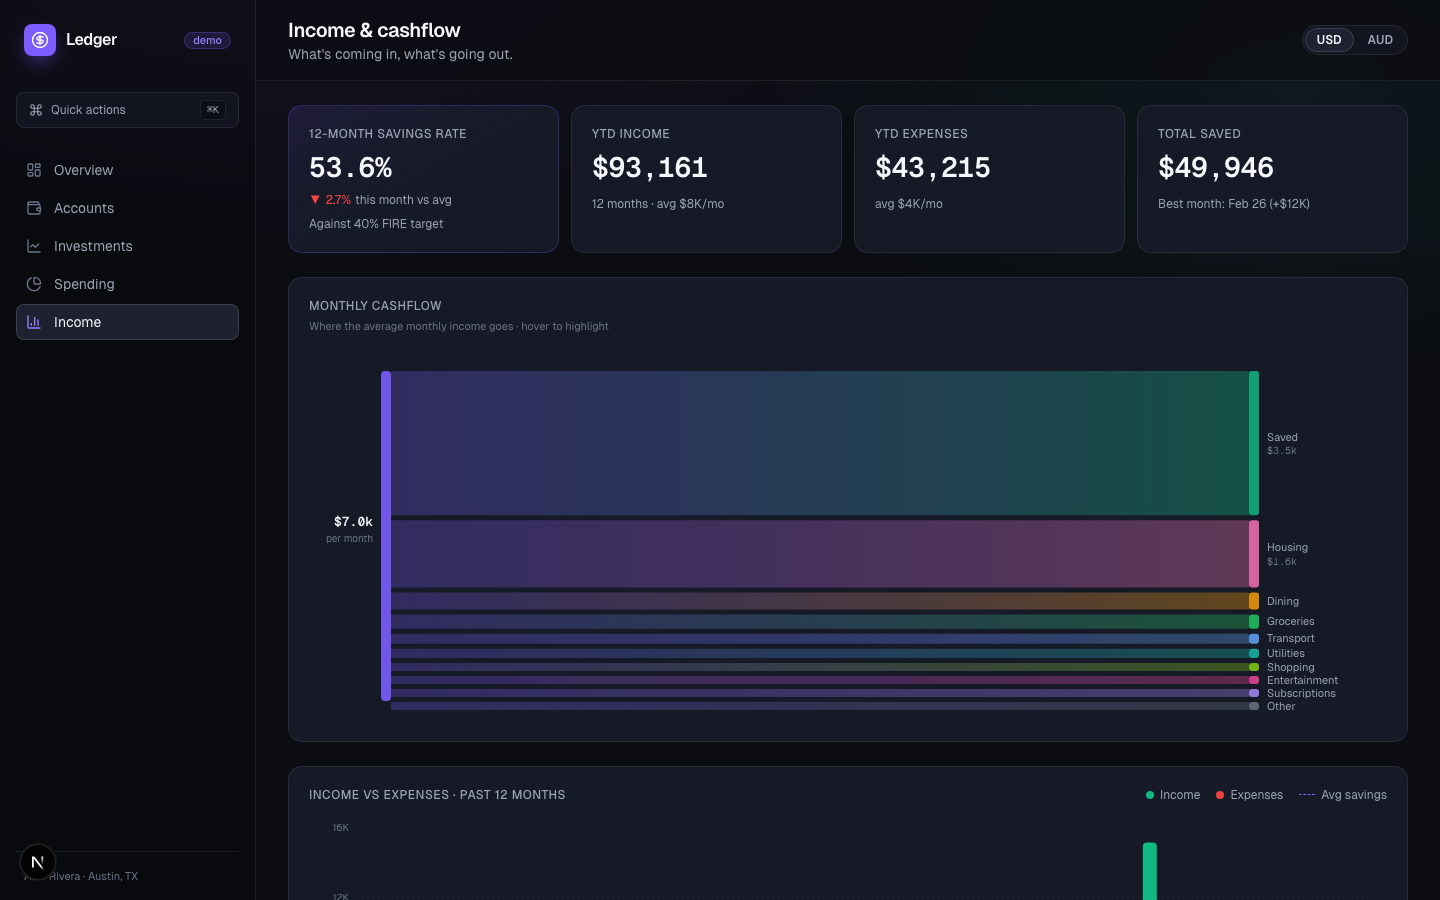
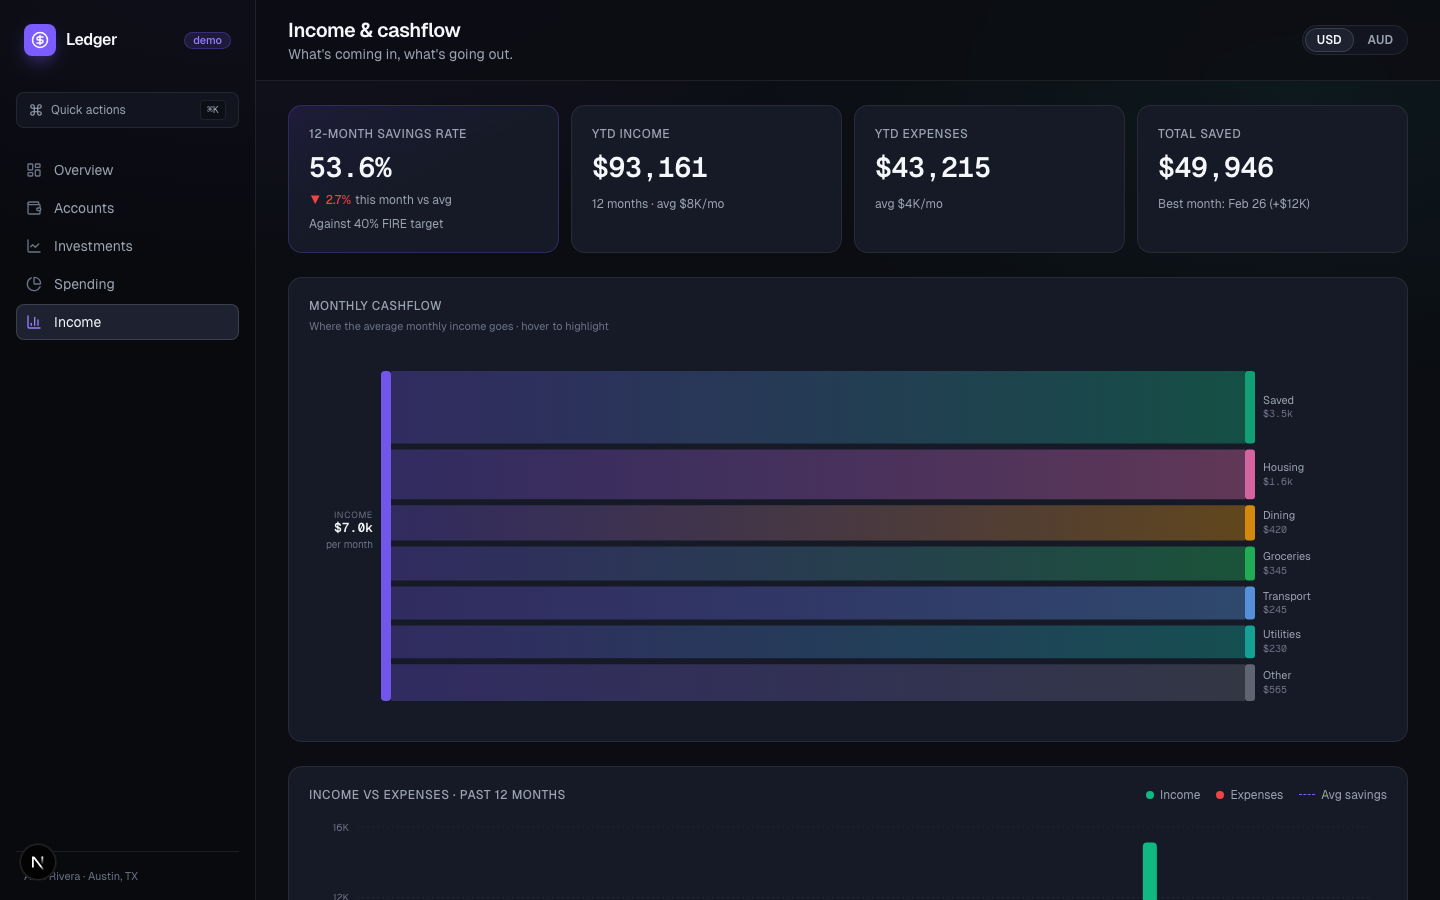
fix: show label and value on every Sankey category
Consolidated to 7 categories and applied a minimum-height floor so
every node is large enough to display both its label and dollar amount
consistently.

Changed region(s): [[0.2188, 0.4044, 0.9375, 0.8089]]

diff --git a/src/components/charts/sankey-flow.tsx b/src/components/charts/sankey-flow.tsx
@@ -3,6 +3,7 @@
 import { useMemo, useState } from "react";
 import { useDimensions } from "@/lib/hooks/use-dimensions";
 
+// Consolidated to 7 categories so every node is large enough to label
 const LINKS = [
   { label: "Saved", value: 3545, color: "#10b981" },
   { label: "Housing", value: 1650, color: "#f472b6" },
@@ -10,20 +11,18 @@ const LINKS = [
   { label: "Groceries", value: 345, color: "#22c55e" },
   { label: "Transport", value: 245, color: "#60a5fa" },
   { label: "Utilities", value: 230, color: "#14b8a6" },
-  { label: "Shopping", value: 195, color: "#84cc16" },
-  { label: "Entertainment", value: 142, color: "#ec4899" },
-  { label: "Subscriptions", value: 108, color: "#a78bfa" },
-  { label: "Other", value: 120, color: "#6b7280" },
+  { label: "Other", value: 565, color: "#6b7280" },
 ] as const;
 
 const TOTAL = LINKS.reduce((s, l) => s + l.value, 0);
 const NODE_W = 10;
-const NODE_GAP = 5;
+const NODE_GAP = 6;
 const SVG_H = 370;
 const MT = 20;
 const MB = 20;
 const ML = 72;
-const MR = 128;
+const MR = 132;
+const MIN_H = 30; // guarantees every node fits two lines of text
 
 function fmt(v: number) {
   return v >= 1000 ? `$${(v / 1000).toFixed(1)}k` : `$${v}`;
@@ -38,6 +37,8 @@ export function SankeyFlow() {
     const innerH = SVG_H - MT - MB;
     const totalGaps = (LINKS.length - 1) * NODE_GAP;
     const availH = innerH - totalGaps;
+    const floor = LINKS.length * MIN_H;
+    const remaining = availH - floor;
 
     const srcX = ML;
     const tgtX = width - MR - NODE_W;
@@ -45,7 +46,7 @@ export function SankeyFlow() {
 
     let curY = MT;
     const nodes = LINKS.map((link) => {
-      const h = Math.max(8, (link.value / TOTAL) * availH);
+      const h = MIN_H + (link.value / TOTAL) * remaining;
       const node = { ...link, x: tgtX, y: curY, h };
       curY += h + NODE_GAP;
       return node;
@@ -128,7 +129,16 @@ export function SankeyFlow() {
             />
             <text
               x={layout.srcX - 8}
-              y={layout.srcY + layout.srcH / 2 - 10}
+              y={layout.srcY + layout.srcH / 2 - 18}
+              textAnchor="end"
+              fill="var(--color-text-dim)"
+              style={{ fontSize: 9, textTransform: "uppercase", letterSpacing: "0.08em" }}
+            >
+              Income
+            </text>
+            <text
+              x={layout.srcX - 8}
+              y={layout.srcY + layout.srcH / 2 - 4}
               textAnchor="end"
               fill="var(--color-text)"
               style={{ fontSize: 13, fontWeight: 600, fontFamily: "var(--font-mono, monospace)" }}
@@ -137,7 +147,7 @@ export function SankeyFlow() {
             </text>
             <text
               x={layout.srcX - 8}
-              y={layout.srcY + layout.srcH / 2 + 6}
+              y={layout.srcY + layout.srcH / 2 + 12}
               textAnchor="end"
               fill="var(--color-text-dim)"
               style={{ fontSize: 10 }}
@@ -145,11 +155,10 @@ export function SankeyFlow() {
               per month
             </text>
 
-            {/* Target nodes + labels */}
+            {/* Target nodes — all show label + value */}
             {layout.nodes.map((n) => {
               const active = hovered === n.label;
               const mid = n.y + n.h / 2;
-              const showValue = n.h >= 18;
               return (
                 <g
                   key={n.label}
@@ -169,24 +178,22 @@ export function SankeyFlow() {
                   />
                   <text
                     x={n.x + NODE_W + 8}
-                    y={showValue ? mid - 6 : mid}
+                    y={mid - 7}
                     dy="0.32em"
                     fill={hovered && !active ? "var(--color-text-dim)" : "var(--color-text-muted)"}
                     style={{ fontSize: 11, transition: "fill 120ms" }}
                   >
                     {n.label}
                   </text>
-                  {showValue && (
-                    <text
-                      x={n.x + NODE_W + 8}
-                      y={mid + 8}
-                      dy="0.32em"
-                      fill="var(--color-text-dim)"
-                      style={{ fontSize: 10, fontFamily: "var(--font-mono, monospace)" }}
-                    >
-                      {fmt(n.value)}
-                    </text>
-                  )}
+                  <text
+                    x={n.x + NODE_W + 8}
+                    y={mid + 7}
+                    dy="0.32em"
+                    fill={hovered && !active ? "rgba(255,255,255,0.18)" : "var(--color-text-dim)"}
+                    style={{ fontSize: 10, fontFamily: "var(--font-mono, monospace)", transition: "fill 120ms" }}
+                  >
+                    {fmt(n.value)}
+                  </text>
                 </g>
               );
             })}
